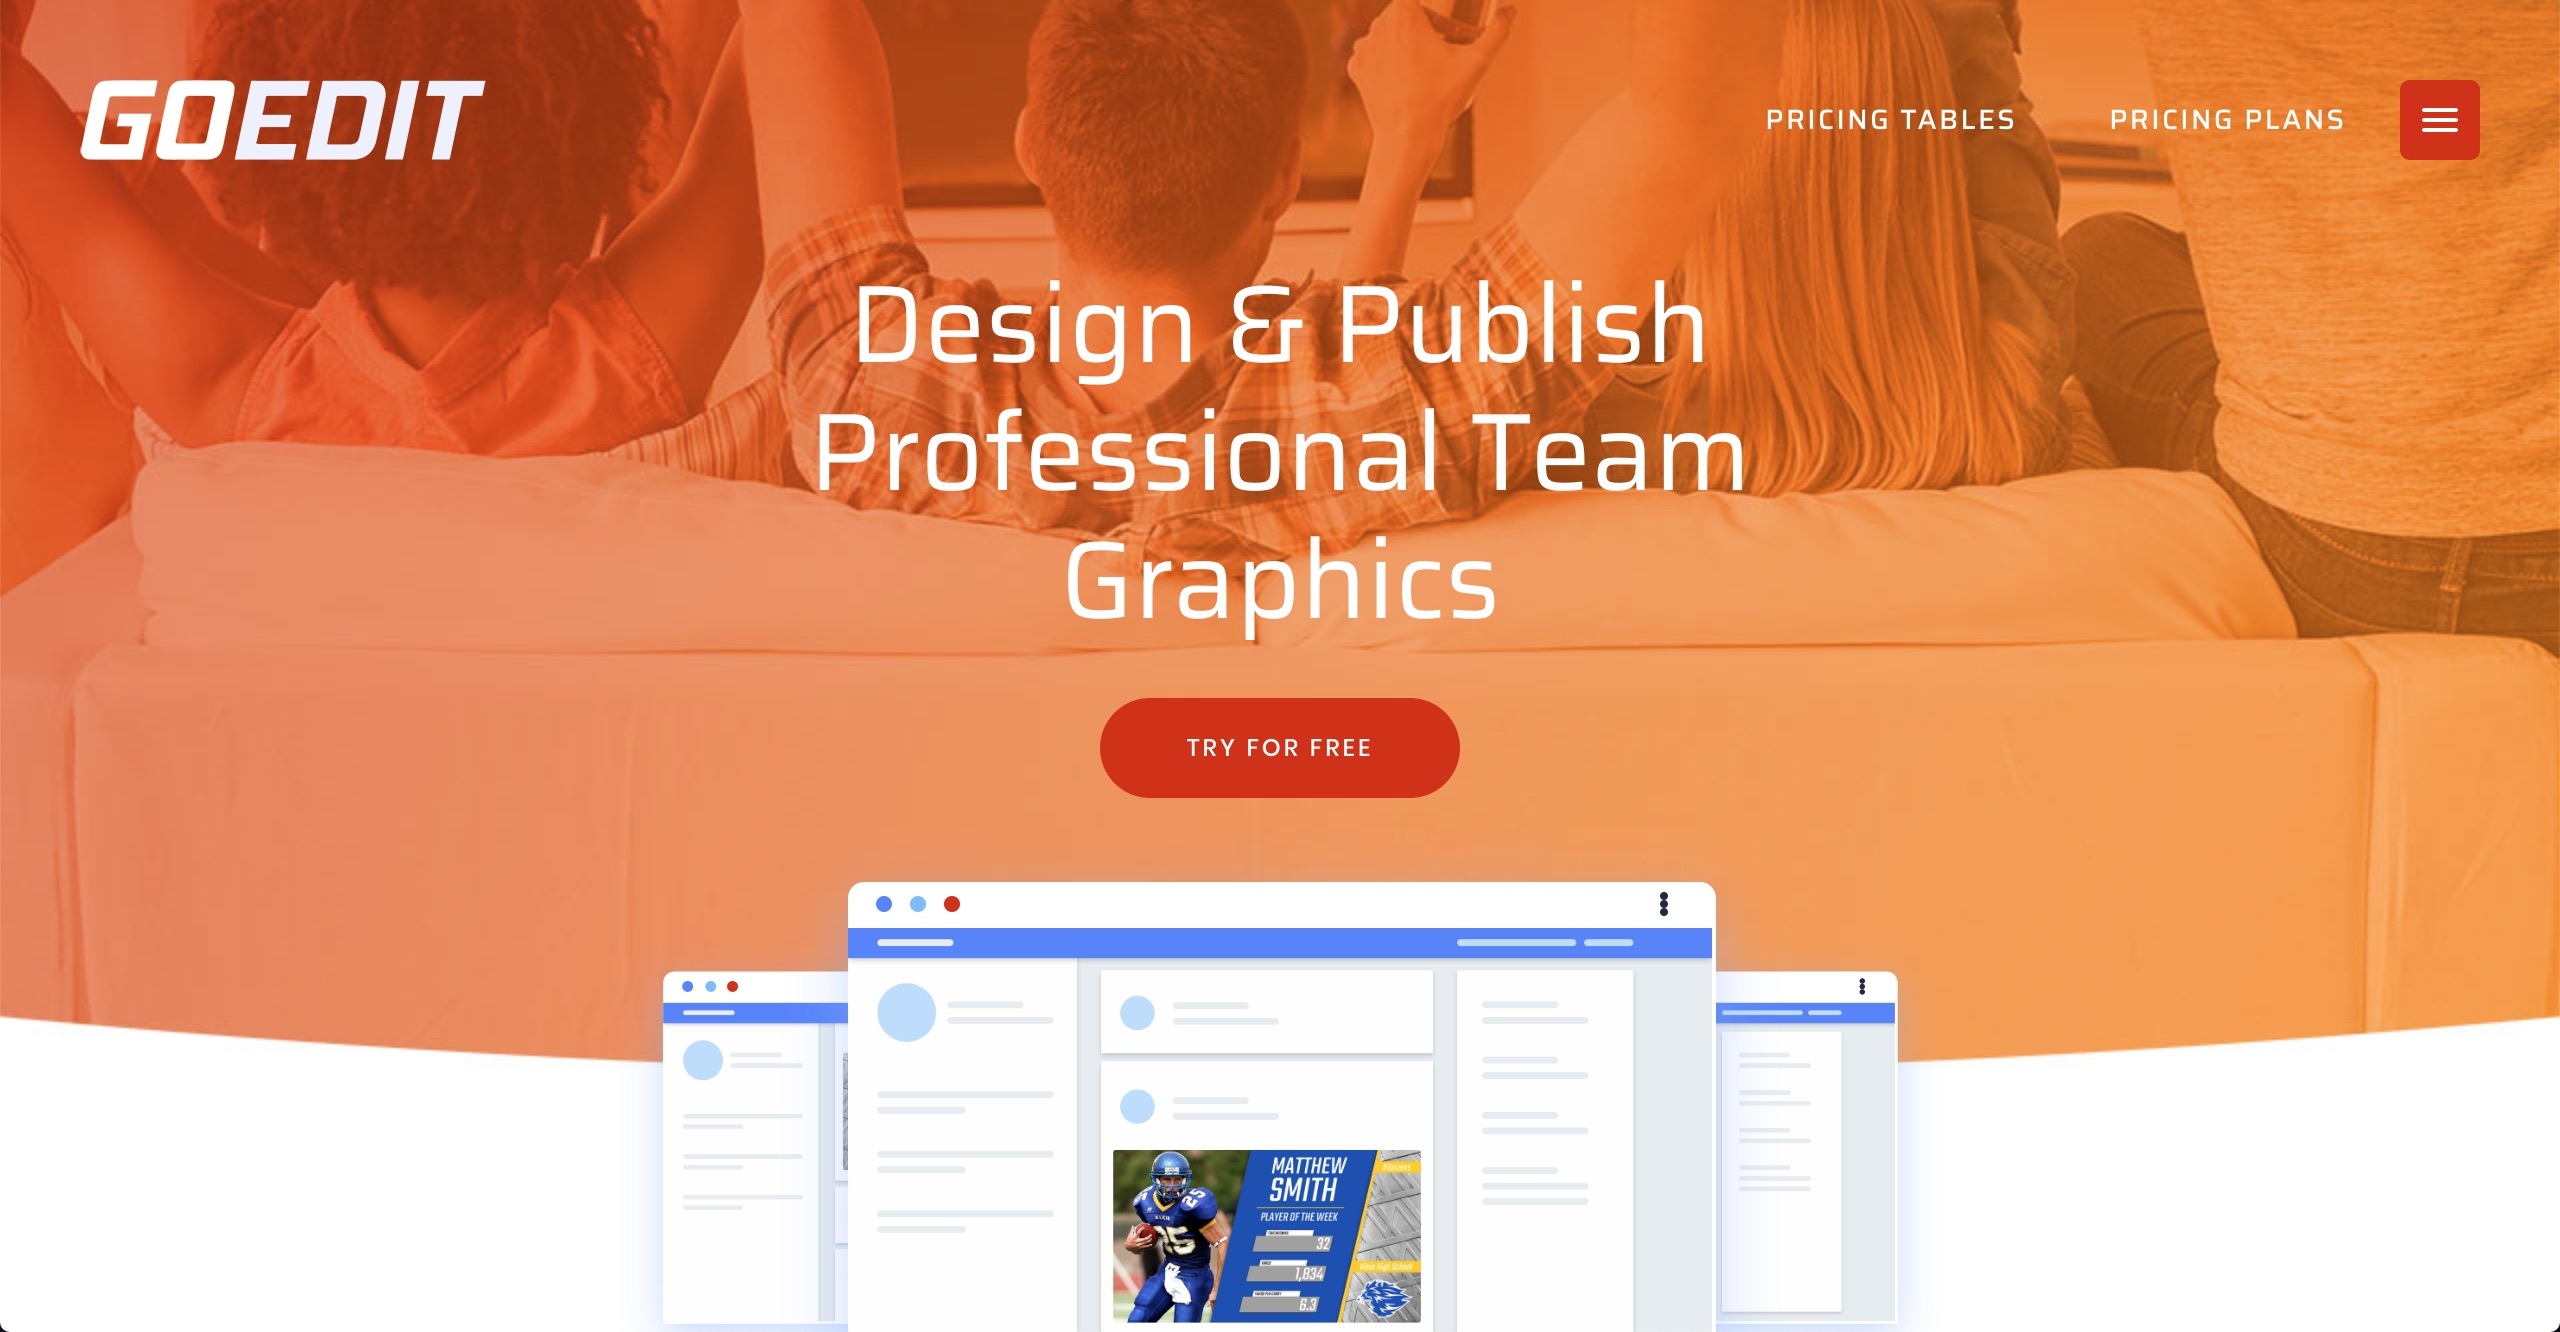
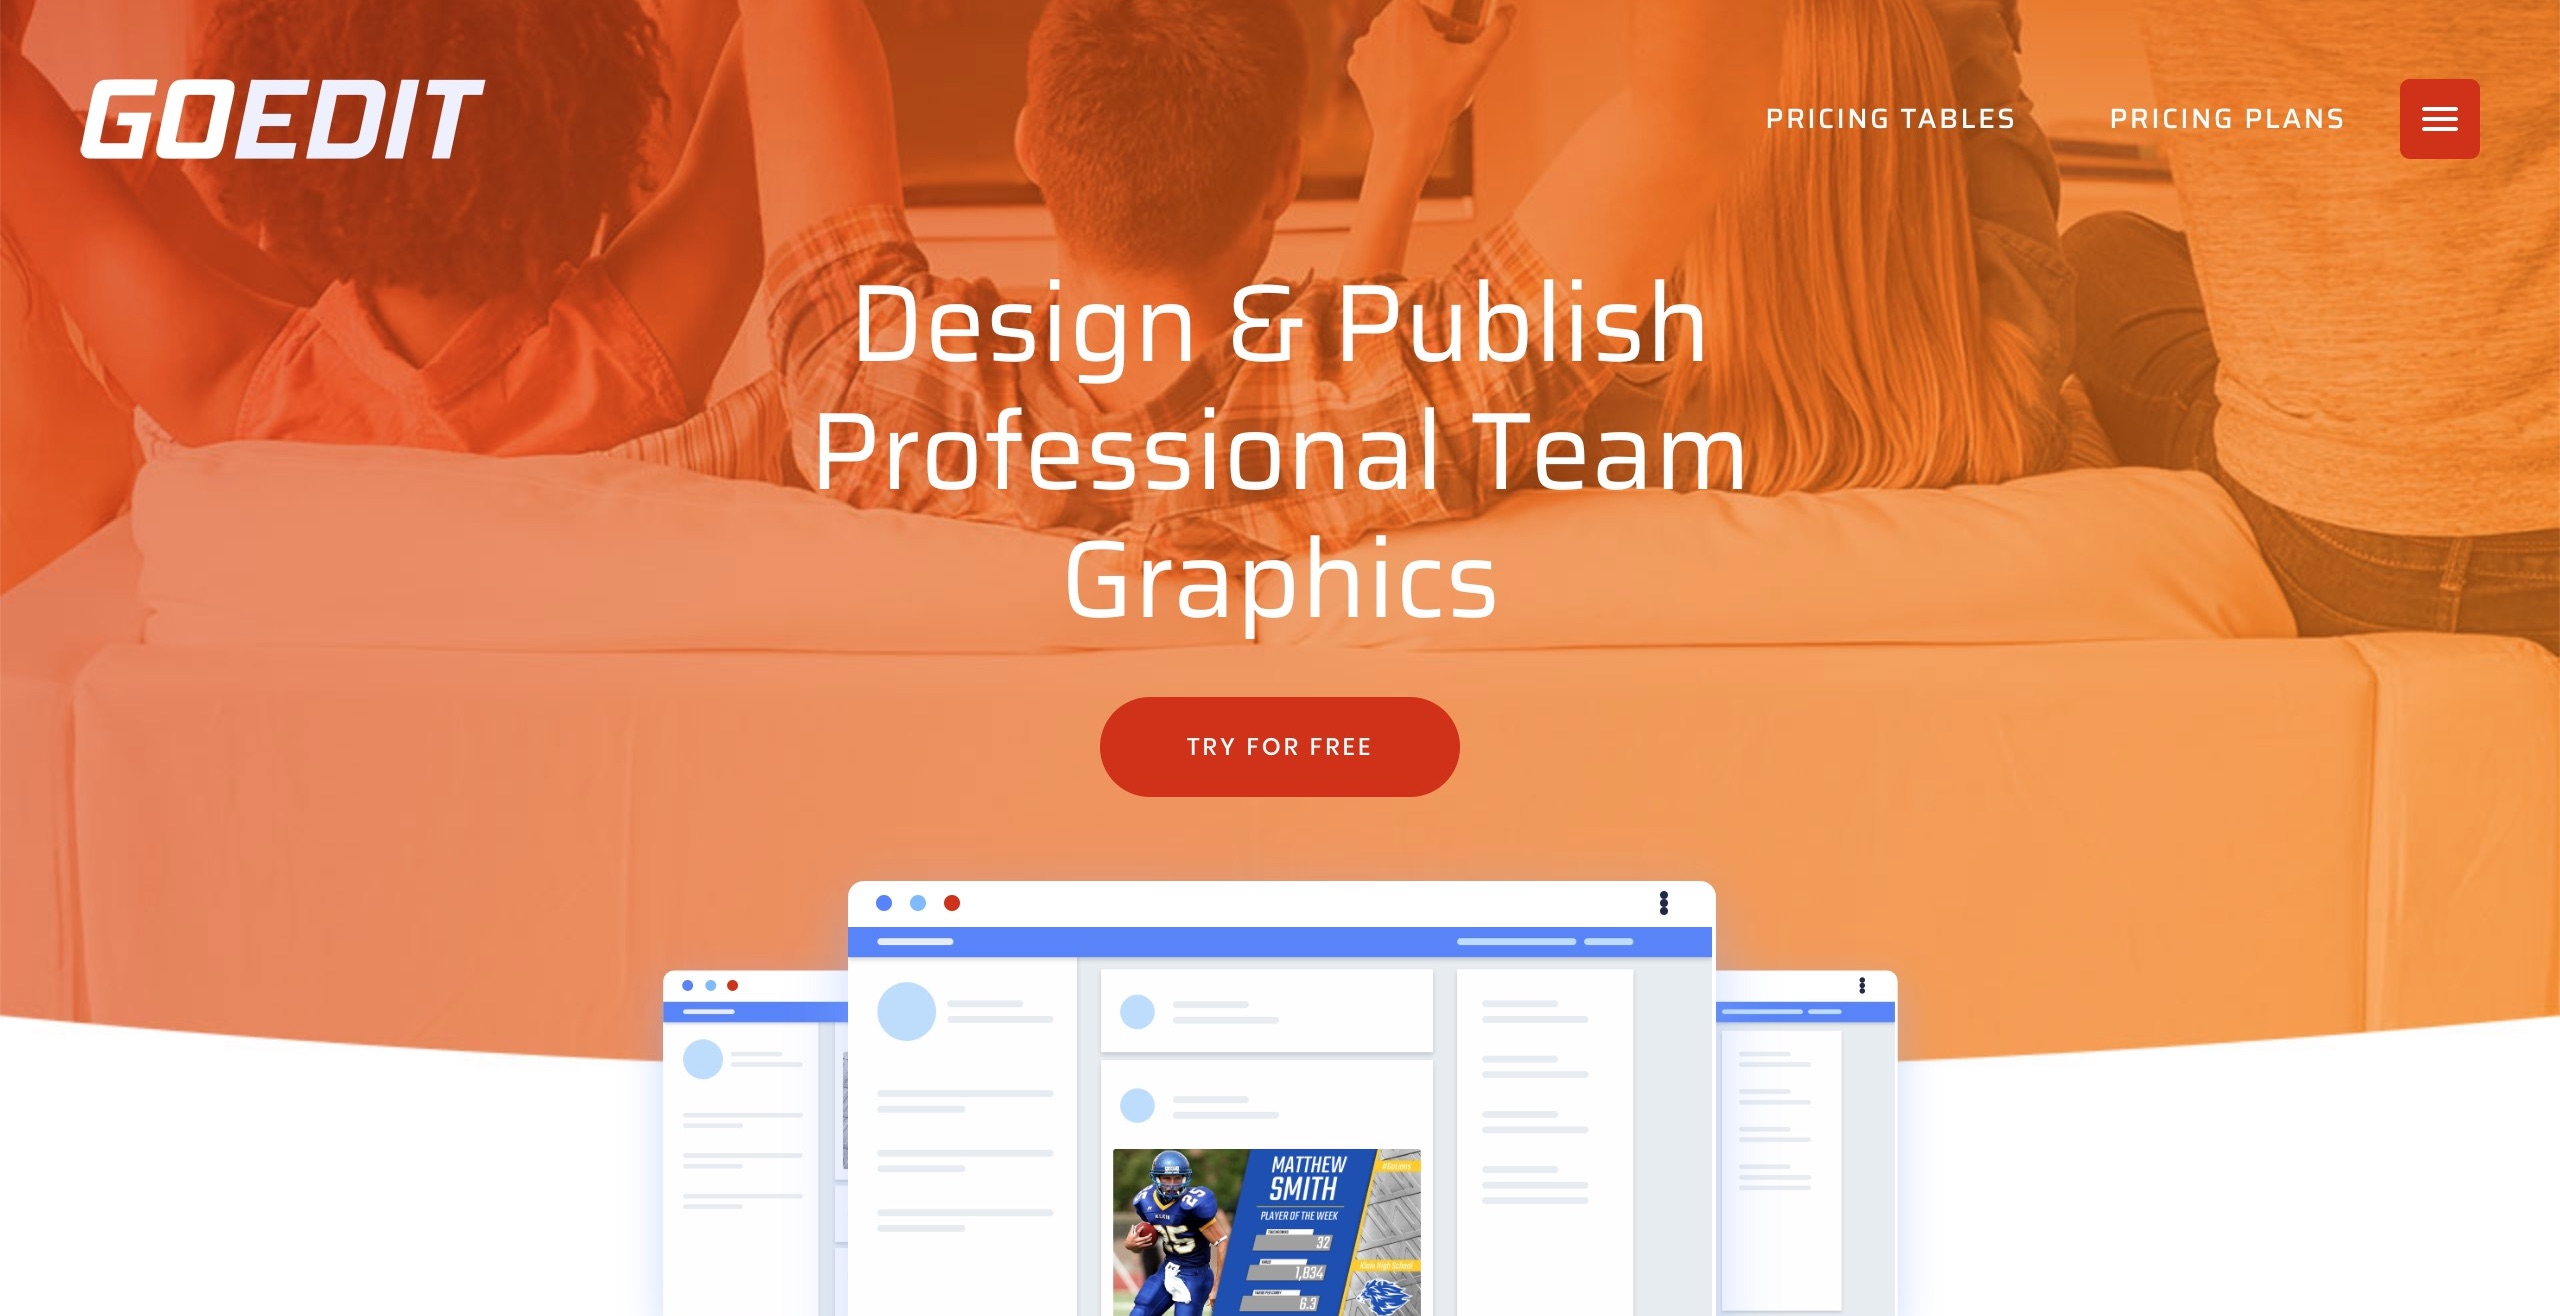
remove border radius from images

diff --git a/client/src/components/WorkCard.js b/client/src/components/WorkCard.js
@@ -54,11 +54,6 @@ const StyledWorkCard = styled.div`
     @media ${largeUp} {
       flex-direction: row-reverse;
     }
-
-    img {
-      border-top-left-radius: 0.3125rem;
-      border-top-right-radius: 0.3125rem;
-    }
   }
 
   .main-content.main-content-group {
@@ -85,7 +80,6 @@ const StyledWorkCard = styled.div`
   }
 
   .secondary-content a {
-    border-radius: 0.3125rem;
     height: 18.75rem;
     margin: 1.5rem auto;
     max-width: 31.25rem;
@@ -101,6 +95,8 @@ const StyledWorkCard = styled.div`
   }
 
   .secondary-content img {
+    border-radius: 0;
+
     @media ${smallOnly} {
       height: 12.5rem;
     }
